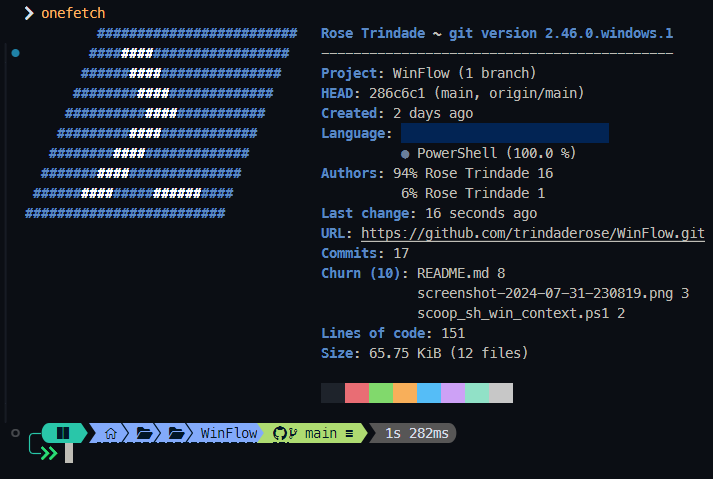
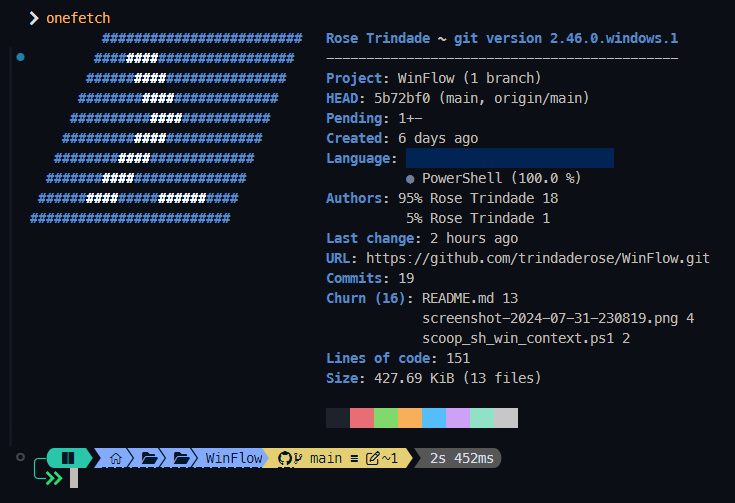
system add

Changed region(s): [[0.0309, 0.0, 0.9874, 0.7599], [0.0309, 0.7891, 0.7405, 0.9645], [0.0, 0.0877, 0.0309, 0.1169]]

diff --git a/README.md b/README.md
@@ -5,12 +5,16 @@
 > .dotfiles
 
 Ferramentas e utilitários essenciais para otimizar e personalizar o meu ambiente Windows.
+## :gem: system
+
+[Sysinternals](https://learn.microsoft.com/en-us/sysinternals/#sysinternals-live) - Advanced system utilities and technical information. *[standalone]*
+[ManageWirelessNetworks](https://www.nirsoft.net/utils/manage_wireless_networks.html) - Advanced system utilities and technical information. *[standalone]*
+[GUIPropView](https://www.nirsoft.net/utils/gui_prop_view.html) - Advanced system utilities and technical information. *[standalone]*
 
 ## :gem: .exe & winget
 [Winget](https://learn.microsoft.com/pt-br/windows/package-manager/winget/) - Gerenciador de pacotes para instalar aplicativos no Windows.
    -   [winget-install](https://github.com/asheroto/winget-install) - Ferramenta para simplificar a instalação de aplicativos via Winget. *[instalação manual]*
    -   [WinGet-Essentials](https://github.com/jjcarrier/PS-WinGet-Essentials) - Conjunto de scripts essenciais para utilizar com o Winget. *[instalação manual]*
-[Sysinternals](https://learn.microsoft.com/en-us/sysinternals/#sysinternals-live) - Advanced system utilities and technical information. *[instalação manual]*
 
 -   [Arc](https://arc.net/) - Navegador web moderno e altamente personalizável. *[instalação manual]*
 -   [UniGetUI](https://www.marticliment.com/unigetui/) - Interface gráfica para facilitar o uso do UniGet, um gerenciador de pacotes. *[instalação manual]*
